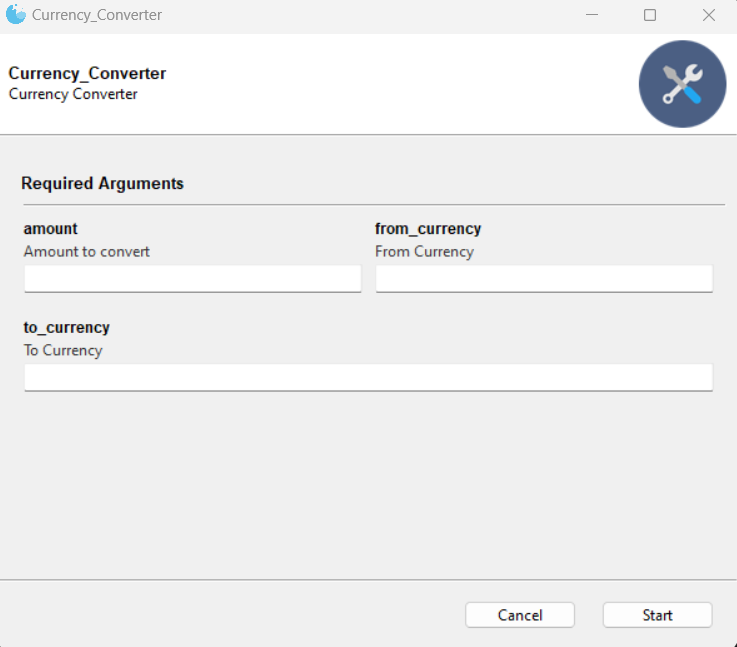
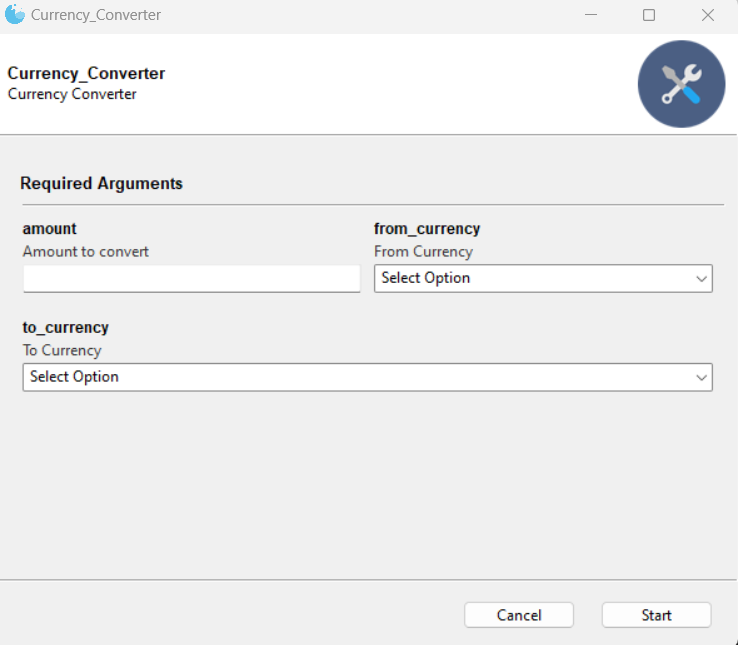
modify code & image

diff --git a/Currency_Converter.py b/Currency_Converter.py
@@ -6,8 +6,10 @@ def currency_converter_gui():
     parser = GooeyParser(description="Currency Converter")
 
     parser.add_argument("amount", type=float, help="Amount to convert")
-    parser.add_argument("from_currency", help="From Currency")
-    parser.add_argument("to_currency", help="To Currency")
+    parser.add_argument(
+        "from_currency", choices=list_currency_codes(), help="From Currency"
+    )
+    parser.add_argument("to_currency", choices=list_currency_codes(), help="To Currency")
 
     args = parser.parse_args()
 
@@ -15,11 +17,25 @@ def currency_converter_gui():
 
     print(f"{args.amount} {args.from_currency} is equal to {result:.2f} {args.to_currency}")
 
-def convert_currency(amount, from_currency, to_currency):
-    api_key = "d0a24575846f6c64de9b32ba"  # Remplacez par votre clé d'API
+def list_currency_codes():
+    api_key = "d0a24575846f6c64de9b32ba"  # Replace with your actual API key
     base_url = "https://open.er-api.com/v6/latest"
 
-    params = {"api_key": api_key, "base": from_currency}
+    response = requests.get(base_url, params={"apikey": api_key})
+
+    if response.status_code == 200:
+        data = response.json()
+        currencies = list(data["rates"].keys())
+        return sorted(currencies)
+    else:
+        print(f"Error: Unable to fetch currency codes. Status Code: {response.status_code}")
+        return []
+
+def convert_currency(amount, from_currency, to_currency):
+    api_key = "d0a24575846f6c64de9b32ba"  # Replace with your actual API key
+    base_url = "https://open.er-api.com/v6/latest"
+
+    params = {"apikey": api_key}
     response = requests.get(base_url, params=params)
 
     if response.status_code == 200:
@@ -35,3 +51,4 @@ def convert_currency(amount, from_currency, to_currency):
 
 if __name__ == "__main__":
     currency_converter_gui()
+
